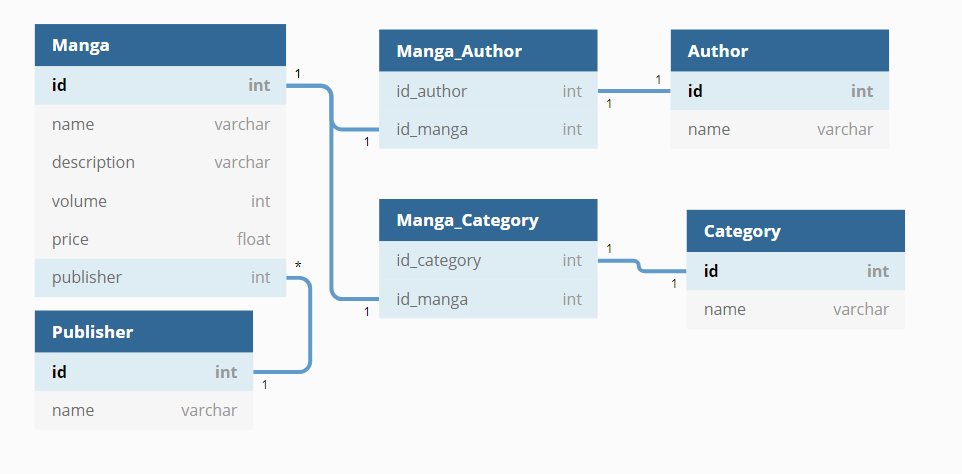
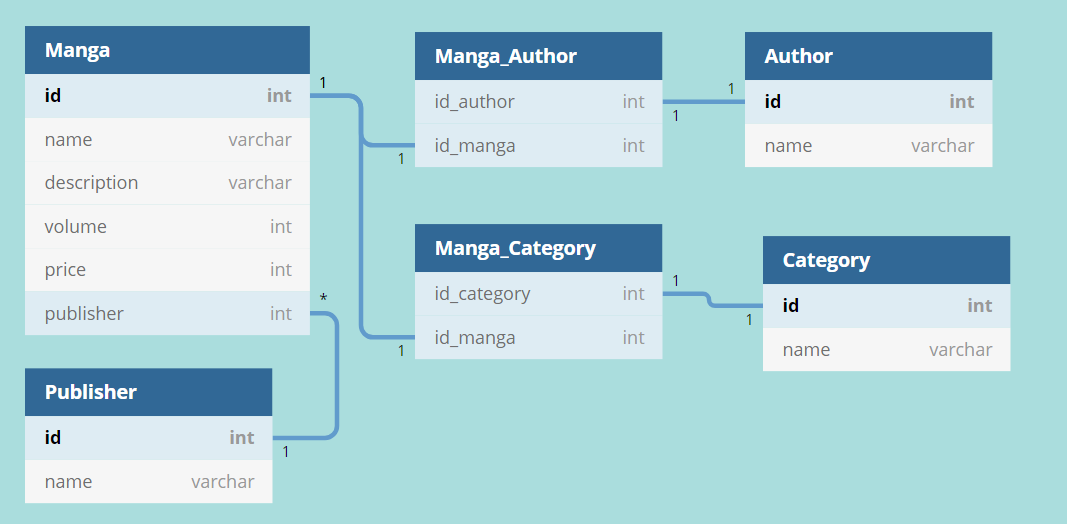
:purple_heart: accept sugestion change.
@silvamateus gave an alert about the type of the price variable. It was set to float and it should be set to double or even an int. If it is stored as an int it should be stored as cents.

diff --git a/README-pt-br.md b/README-pt-br.md
@@ -69,7 +69,7 @@ Utilizando o [DBDiagram](https://dbdiagram.io/) que é uma plataforma gratuita e
             name varchar [not null]
             description varchar [not null]
             volume int 
-            price float [not null]
+            price int [not null]
             author varchar [not null]
             category varchar [not null]
             publisher varchar [not null]
@@ -109,7 +109,7 @@ Utilizando o [DBDiagram](https://dbdiagram.io/) que é uma plataforma gratuita e
             name varchar [not null]
             description varchar [not null]
             volume int 
-            price float [not null]
+            price int [not null]
             publisher int [not null]
         }
 
